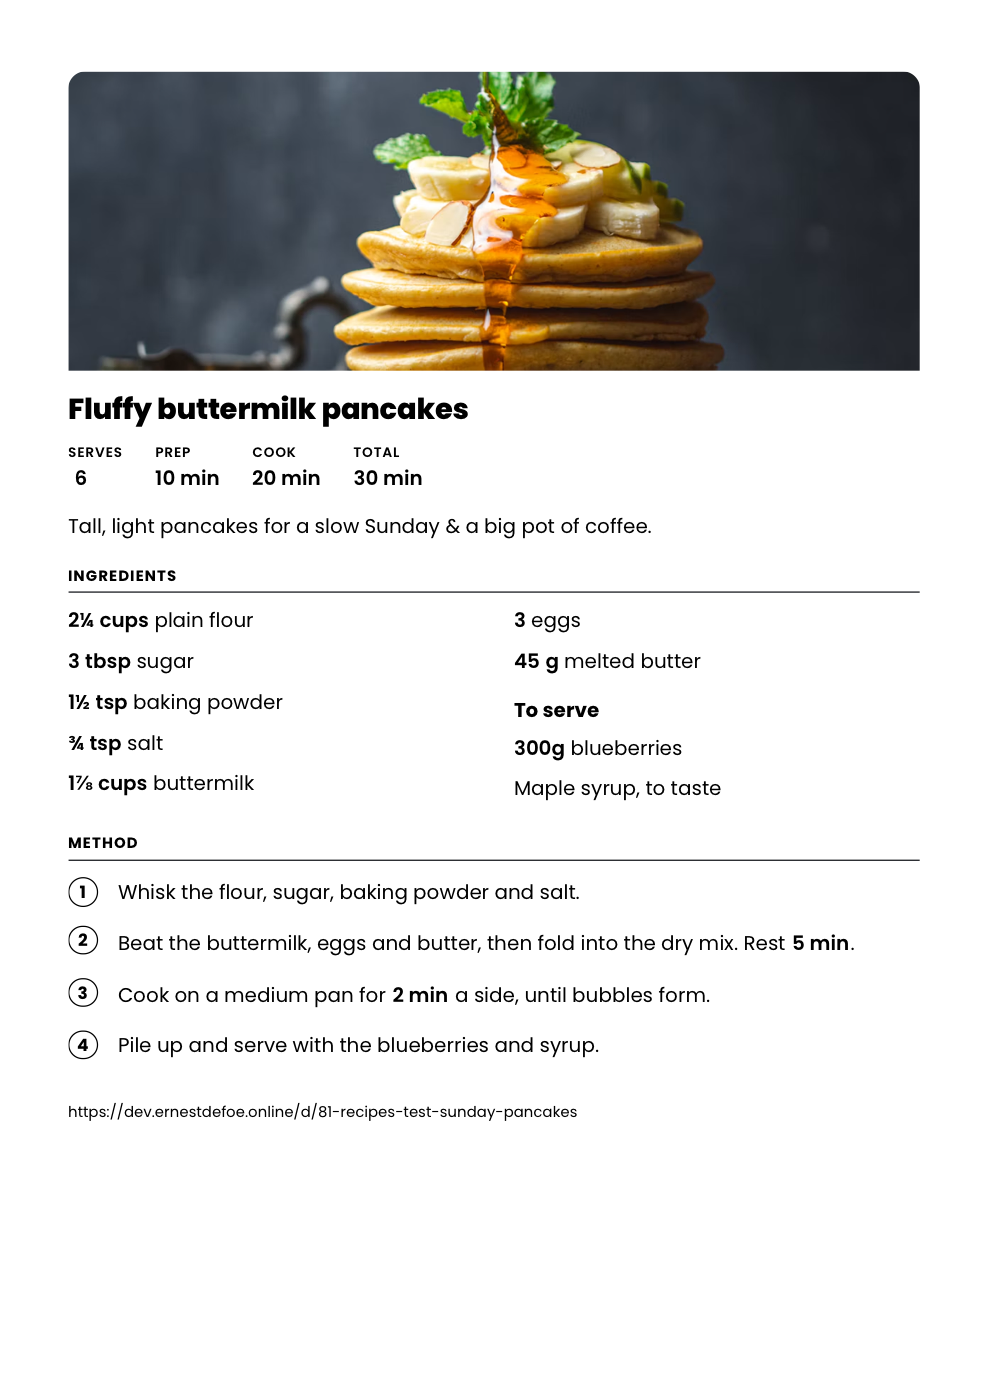
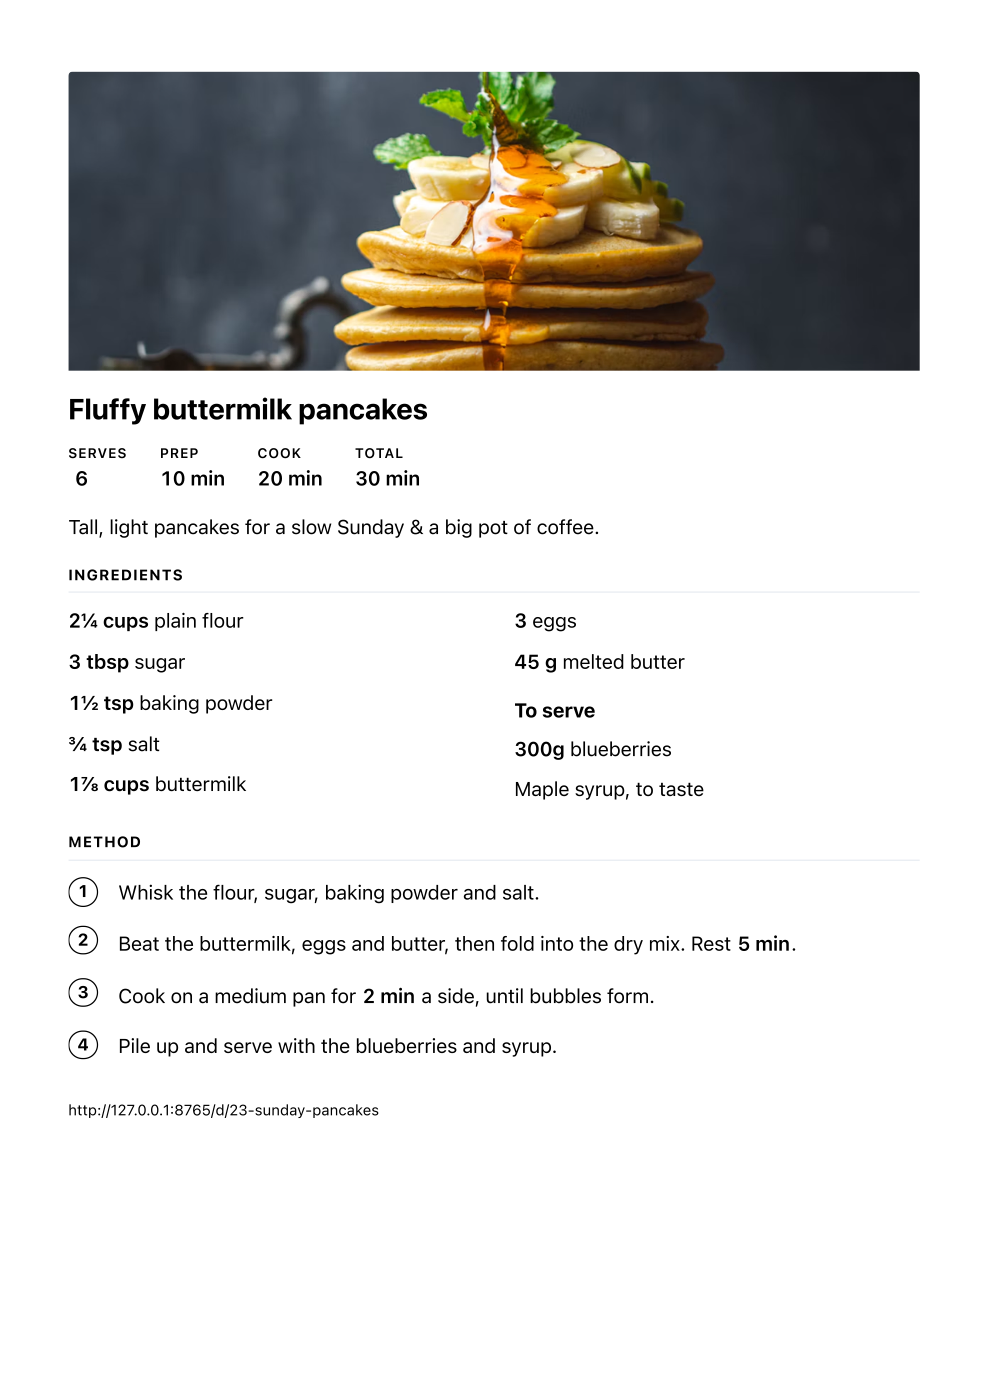
docs: screenshots on the default Flarum theme
Most forums run stock Flarum, so that is what the screenshots show.

diff --git a/README.md b/README.md
@@ -11,7 +11,7 @@ and [Scribe](https://github.com/ernestdefoe/scribe).
 [![Flarum](https://img.shields.io/badge/Flarum-2.0-orange)](https://flarum.org)
 [![Licence](https://img.shields.io/badge/licence-MIT-blue)](LICENSE)
 
-![A recipe card on a dark theme](.github/screenshots/card.png)
+![A recipe card on the default Flarum theme](.github/screenshots/card.png)
 
 ---
 
